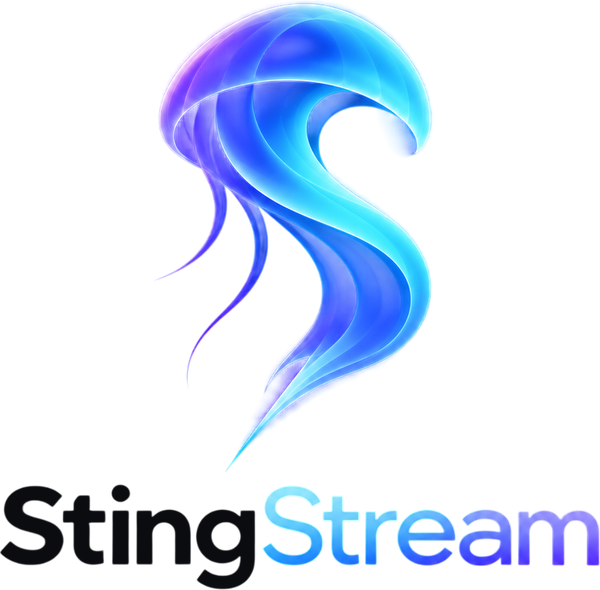
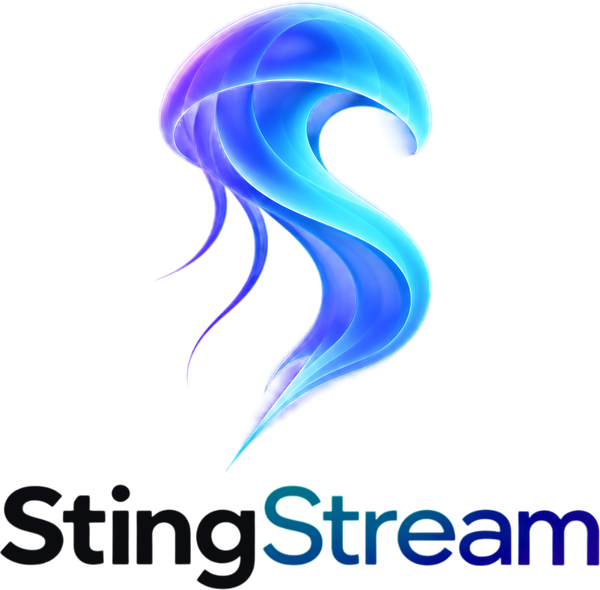
fix(brand): make the wordmark readable on a light ground
`wordmark-light.png` exists because "Sting" is rendered near-white and vanishes
on a white page. Only that half was ever treated: "Stream" carried the artwork's
cyan-to-violet gradient across untouched, on the grounds that it is the brand.

On white it measured 3.22:1 on average and 1.11:1 at its palest. Dan, looking at
the sidebar on the light theme: "can you make the logo readable?". The pale cyan
end is not ink on a white page, whatever it is on near-black.

The generator now caps the gradient's HSL lightness and floors its saturation,
so hue survives and it is recognisably the same gradient, just made of ink
rather than of light. Darkening alone would have sent the cyan grey; the
saturation floor is what keeps it deep teal. It measures 11.1:1 on average now,
and no pixel of the word falls below the 3:1 a wordmark is held to.

`assets/brand/wordmarkContrast.test.ts` pins the outcome rather than the
constant, because the thing that can quietly regress is the art: re-render the
source paler and a cap that was generous becomes insufficient, with nothing to
say so. It also asserts the dark variant still fails the same check, so the two
cannot be confused for one another.

Only the two light-ground assets changed; the generator is deterministic and
every other icon it writes is byte-identical.

Claude-Session: https://claude.ai/code/session_0193x6h2CAxZuyFYXg8odgw5

Changed region(s): [[0.42, 0.8237, 1.0, 0.9763]]

diff --git a/apps/stingstream/scripts/brand/generate.ts b/apps/stingstream/scripts/brand/generate.ts
@@ -34,6 +34,7 @@ import {
   MARK_SIZE,
   MONO_ALPHA_LEVELS,
   SOURCE_FILES,
+  WORDMARK_LIGHT_CHROMA,
   WORDMARK_LIGHT_INK,
   WORDMARK_SATURATION,
   WORDMARK_SIZE,
@@ -235,12 +236,18 @@ async function markMonoArt(): Promise<Buffer> {
 }
 
 /**
- * The wordmark recolored for a light background: "Sting" is rendered near-white and
- * disappears on white, while "Stream" carries the cyan-to-violet gradient and must
- * survive untouched. Selecting by saturation rather than by a hardcoded x split keeps
- * this correct if the art is ever re-rendered -- and the boundary is checked, not
- * assumed, because a wordmark whose halves overlapped would need a different approach
- * entirely.
+ * The wordmark recolored for a light background.
+ *
+ * Both halves need work, for opposite reasons. "Sting" is rendered near-white and
+ * disappears on white, so it is repainted in the dark ink. "Stream" carries the
+ * cyan-to-violet gradient, which used to be carried across untouched -- and measured
+ * 3.22:1 on white, with its palest pixels at 1.11:1. It is darkened by capping HSL
+ * lightness, so the hue and the saturation survive and it is still visibly the same
+ * gradient, just one made of ink rather than of light.
+ *
+ * Selecting by saturation rather than by a hardcoded x split keeps this correct if the
+ * art is ever re-rendered -- and the boundary is checked, not assumed, because a
+ * wordmark whose halves overlapped would need a different approach entirely.
  */
 async function wordmarkLightArt(): Promise<Buffer> {
   const { data, info } = await sharp(WORDMARK_SRC)
@@ -296,7 +303,80 @@ async function wordmarkLightArt(): Promise<Buffer> {
       data[i + 2] = WORDMARK_LIGHT_INK.b;
     }
   }
+
+  // "Stream": keep the hue, cap the lightness. Everything from the boundary
+  // rightwards, including the anti-aliased edges, so the word darkens evenly
+  // rather than growing a pale halo.
+  for (let y = 0; y < height; y++) {
+    for (let x = firstChromatic; x < width; x++) {
+      const i = (y * width + x) * channels;
+      if (data[i + 3] === 0) continue;
+      const [r, g, b] = darkenForLight(data[i], data[i + 1], data[i + 2]);
+      data[i] = r;
+      data[i + 1] = g;
+      data[i + 2] = b;
+    }
+  }
   return sharp(data, { raw: { width, height, channels } }).png().toBuffer();
+}
+
+/**
+ * One pixel of "Stream", moved from light to ink.
+ *
+ * Round-trips through HSL and changes only two of the three: lightness is capped
+ * at `maxLightness`, and saturation is floored at `minSaturation` because
+ * darkening alone sends the pale cyan grey rather than deep teal. Hue is never
+ * touched, which is what keeps the result the artwork's gradient rather than a
+ * new one.
+ */
+function darkenForLight(
+  r8: number,
+  g8: number,
+  b8: number,
+): [number, number, number] {
+  const r = r8 / 255;
+  const g = g8 / 255;
+  const b = b8 / 255;
+  const max = Math.max(r, g, b);
+  const min = Math.min(r, g, b);
+  const l = (max + min) / 2;
+  const d = max - min;
+
+  let h = 0;
+  if (d !== 0) {
+    if (max === r) h = ((g - b) / d) % 6;
+    else if (max === g) h = (b - r) / d + 2;
+    else h = (r - g) / d + 4;
+    h *= 60;
+    if (h < 0) h += 360;
+  }
+  const s = d === 0 ? 0 : d / (1 - Math.abs(2 * l - 1));
+
+  const nextL = Math.min(l, WORDMARK_LIGHT_CHROMA.maxLightness);
+  // A greyscale pixel has no hue to preserve, so leave its saturation alone
+  // rather than inventing a colour for it.
+  const nextS = d === 0 ? s : Math.max(s, WORDMARK_LIGHT_CHROMA.minSaturation);
+
+  const c = (1 - Math.abs(2 * nextL - 1)) * nextS;
+  const x2 = c * (1 - Math.abs(((h / 60) % 2) - 1));
+  const m = nextL - c / 2;
+  const [rp, gp, bp] =
+    h < 60
+      ? [c, x2, 0]
+      : h < 120
+        ? [x2, c, 0]
+        : h < 180
+          ? [0, c, x2]
+          : h < 240
+            ? [0, x2, c]
+            : h < 300
+              ? [x2, 0, c]
+              : [c, 0, x2];
+  return [
+    Math.round((rp + m) * 255),
+    Math.round((gp + m) * 255),
+    Math.round((bp + m) * 255),
+  ];
 }
 
 // ---------------------------------------------------------------------------

diff --git a/apps/stingstream/assets/brand/wordmarkContrast.test.ts b/apps/stingstream/assets/brand/wordmarkContrast.test.ts
@@ -1,0 +1,83 @@
+import { describe, expect, test } from "bun:test";
+import { join } from "node:path";
+import sharp from "sharp";
+
+/**
+ * The light-ground wordmark is readable on a light ground.
+ *
+ * `wordmark-light.png` exists because "Sting" is rendered near-white and
+ * vanishes on a white page. For a long time that was the only half treated:
+ * "Stream" carried the artwork's cyan-to-violet gradient across untouched,
+ * because it is the brand. On white it measured **3.22:1 on average and 1.11:1
+ * at its palest** — Dan, looking at the sidebar on the light theme: *"can you
+ * make the logo readable?"*.
+ *
+ * `scripts/brand/generate.ts` now caps its HSL lightness (`WORDMARK_LIGHT_CHROMA`
+ * in `scripts/brand/source.ts`), keeping hue and saturation so it is still
+ * recognisably the same gradient, just made of ink rather than of light.
+ *
+ * This pins the outcome rather than the constant, because the thing that can
+ * quietly regress is the *art*: re-render the source paler and a cap that was
+ * generous becomes insufficient, with nothing to say so. A wordmark is large
+ * text, so 3:1 is the bar (WCAG 1.4.3); the mean is held far above it because a
+ * logo sitting exactly on the minimum is a logo nobody can read comfortably.
+ */
+
+const WHITE_LUMINANCE = 1.0;
+const channel = (value: number) => {
+  const c = value / 255;
+  return c <= 0.04045 ? c / 12.92 : ((c + 0.055) / 1.055) ** 2.4;
+};
+const luminance = (r: number, g: number, b: number) =>
+  0.2126 * channel(r) + 0.7152 * channel(g) + 0.0722 * channel(b);
+const contrastOnWhite = (r: number, g: number, b: number) =>
+  (WHITE_LUMINANCE + 0.05) / (luminance(r, g, b) + 0.05);
+
+/**
+ * Only the right-hand half is measured. "Sting" is a flat dark ink and would
+ * drag the average up; "Stream" is the gradient, and the gradient is the part
+ * that was unreadable.
+ */
+const STREAM_STARTS_AT = 0.45;
+/** Ignore the anti-aliased rim, which is a blend with the page behind it. */
+const OPAQUE = 200;
+
+const readStream = async (file: string) => {
+  const { data, info } = await sharp(join(__dirname, file))
+    .ensureAlpha()
+    .raw()
+    .toBuffer({ resolveWithObject: true });
+  const { width, height, channels } = info;
+  const ratios: number[] = [];
+  for (let y = 0; y < height; y++) {
+    for (let x = Math.floor(width * STREAM_STARTS_AT); x < width; x++) {
+      const i = (y * width + x) * channels;
+      if (data[i + 3] < OPAQUE) continue;
+      ratios.push(contrastOnWhite(data[i], data[i + 1], data[i + 2]));
+    }
+  }
+  return ratios;
+};
+
+describe("the light wordmark", () => {
+  test("every pixel of Stream clears the large-text bar on white", async () => {
+    const ratios = await readStream("wordmark-light.png");
+    expect(ratios.length).toBeGreaterThan(5000);
+    const failing = ratios.filter((r) => r < 3).length;
+    expect({ pixelsBelow3to1: failing }).toEqual({ pixelsBelow3to1: 0 });
+  });
+
+  test("and does so with room to spare, not by a hair", async () => {
+    const ratios = await readStream("wordmark-light.png");
+    const mean = ratios.reduce((a, b) => a + b, 0) / ratios.length;
+    expect(mean).toBeGreaterThanOrEqual(8);
+  });
+
+  test("the dark wordmark is left alone", async () => {
+    // It is drawn on bg0, where the pale gradient is exactly right. If this ever
+    // starts passing the white-background check, the two variants have been
+    // confused for each other.
+    const ratios = await readStream("wordmark.png");
+    expect(ratios.some((r) => r < 3)).toBe(true);
+  });
+});

diff --git a/apps/stingstream/scripts/brand/source.ts b/apps/stingstream/scripts/brand/source.ts
@@ -74,8 +74,9 @@ export const MONO_ALPHA_LEVELS = { lo: 0.18, hi: 0.72 } as const;
 /**
  * Saturation thresholds used to build the light-background wordmark. "Sting" is rendered
  * near-white (#EAECF2) and vanishes on a light ground; "Stream" carries the cyan->violet
- * gradient and must not be touched. Measured on the cut art the two do not overlap at
- * all: every achromatic column is <= 363 and every chromatic column is >= 375.
+ * gradient, whose hue is kept and whose lightness is capped. Measured on the cut art the
+ * two do not overlap at all: every achromatic column is <= 363 and every chromatic column
+ * is >= 375.
  */
 export const WORDMARK_SATURATION = {
   chromatic: 0.35,
@@ -84,3 +85,24 @@ export const WORDMARK_SATURATION = {
 
 /** The ink "Sting" is recolored to for the light-background lockup. */
 export const WORDMARK_LIGHT_INK = { r: 0x0b, g: 0x0c, b: 0x0f } as const;
+
+/**
+ * How far "Stream" is darkened for the light-background lockup.
+ *
+ * The gradient is the artwork's and used to be carried across untouched, on the
+ * grounds that it is the brand. On white it measured 3.22:1 on average and 1.11:1
+ * at its lightest -- Dan, looking at the sidebar on the light theme: *"can you make
+ * the logo readable?"*. The pale cyan end is simply not ink on a white page.
+ *
+ * So the hue and the saturation are kept, which is what makes it recognisably the
+ * same gradient, and only the *lightness* is capped. `maxLightness` is an HSL L,
+ * and `minSaturation` stops a darkened pixel going muddy: pulling lightness down
+ * without it turns the cyan grey rather than deep teal.
+ *
+ * `brand.test.ts` pins the result, so a re-render of the source art that drifts
+ * back towards pale fails rather than shipping.
+ */
+export const WORDMARK_LIGHT_CHROMA = {
+  maxLightness: 0.28,
+  minSaturation: 0.65,
+} as const;

diff --git a/docs/APP-RELEASE.md b/docs/APP-RELEASE.md
@@ -190,7 +190,9 @@ writing, all under `apps/stingstream/` unless noted:
 assets/brand/mark.png                  400x674    the mark, native size; what the app renders
 assets/brand/mark-mono.png             400x674    white silhouette from the mark's levelled alpha
 assets/brand/wordmark.png              856x151    "StingStream", for dark grounds
-assets/brand/wordmark-light.png        856x151    same, "Sting" recolored dark for light grounds
+assets/brand/wordmark-light.png        856x151    for light grounds: "Sting" recolored dark, and
+                                                  "Stream" darkened by capping its lightness so the
+                                                  pale cyan end is ink rather than a suggestion
 assets/brand/lockup-stacked{,-light}.png  600x590 mark above wordmark; used by the root README
 assets/images/icon.png                 1024x1024, opaque  combined icon (web favicon, non-adaptive fallback)
 assets/images/icon-android-plain.png   1024x1024  Android adaptive icon FOREGROUND (66% safe zone)
